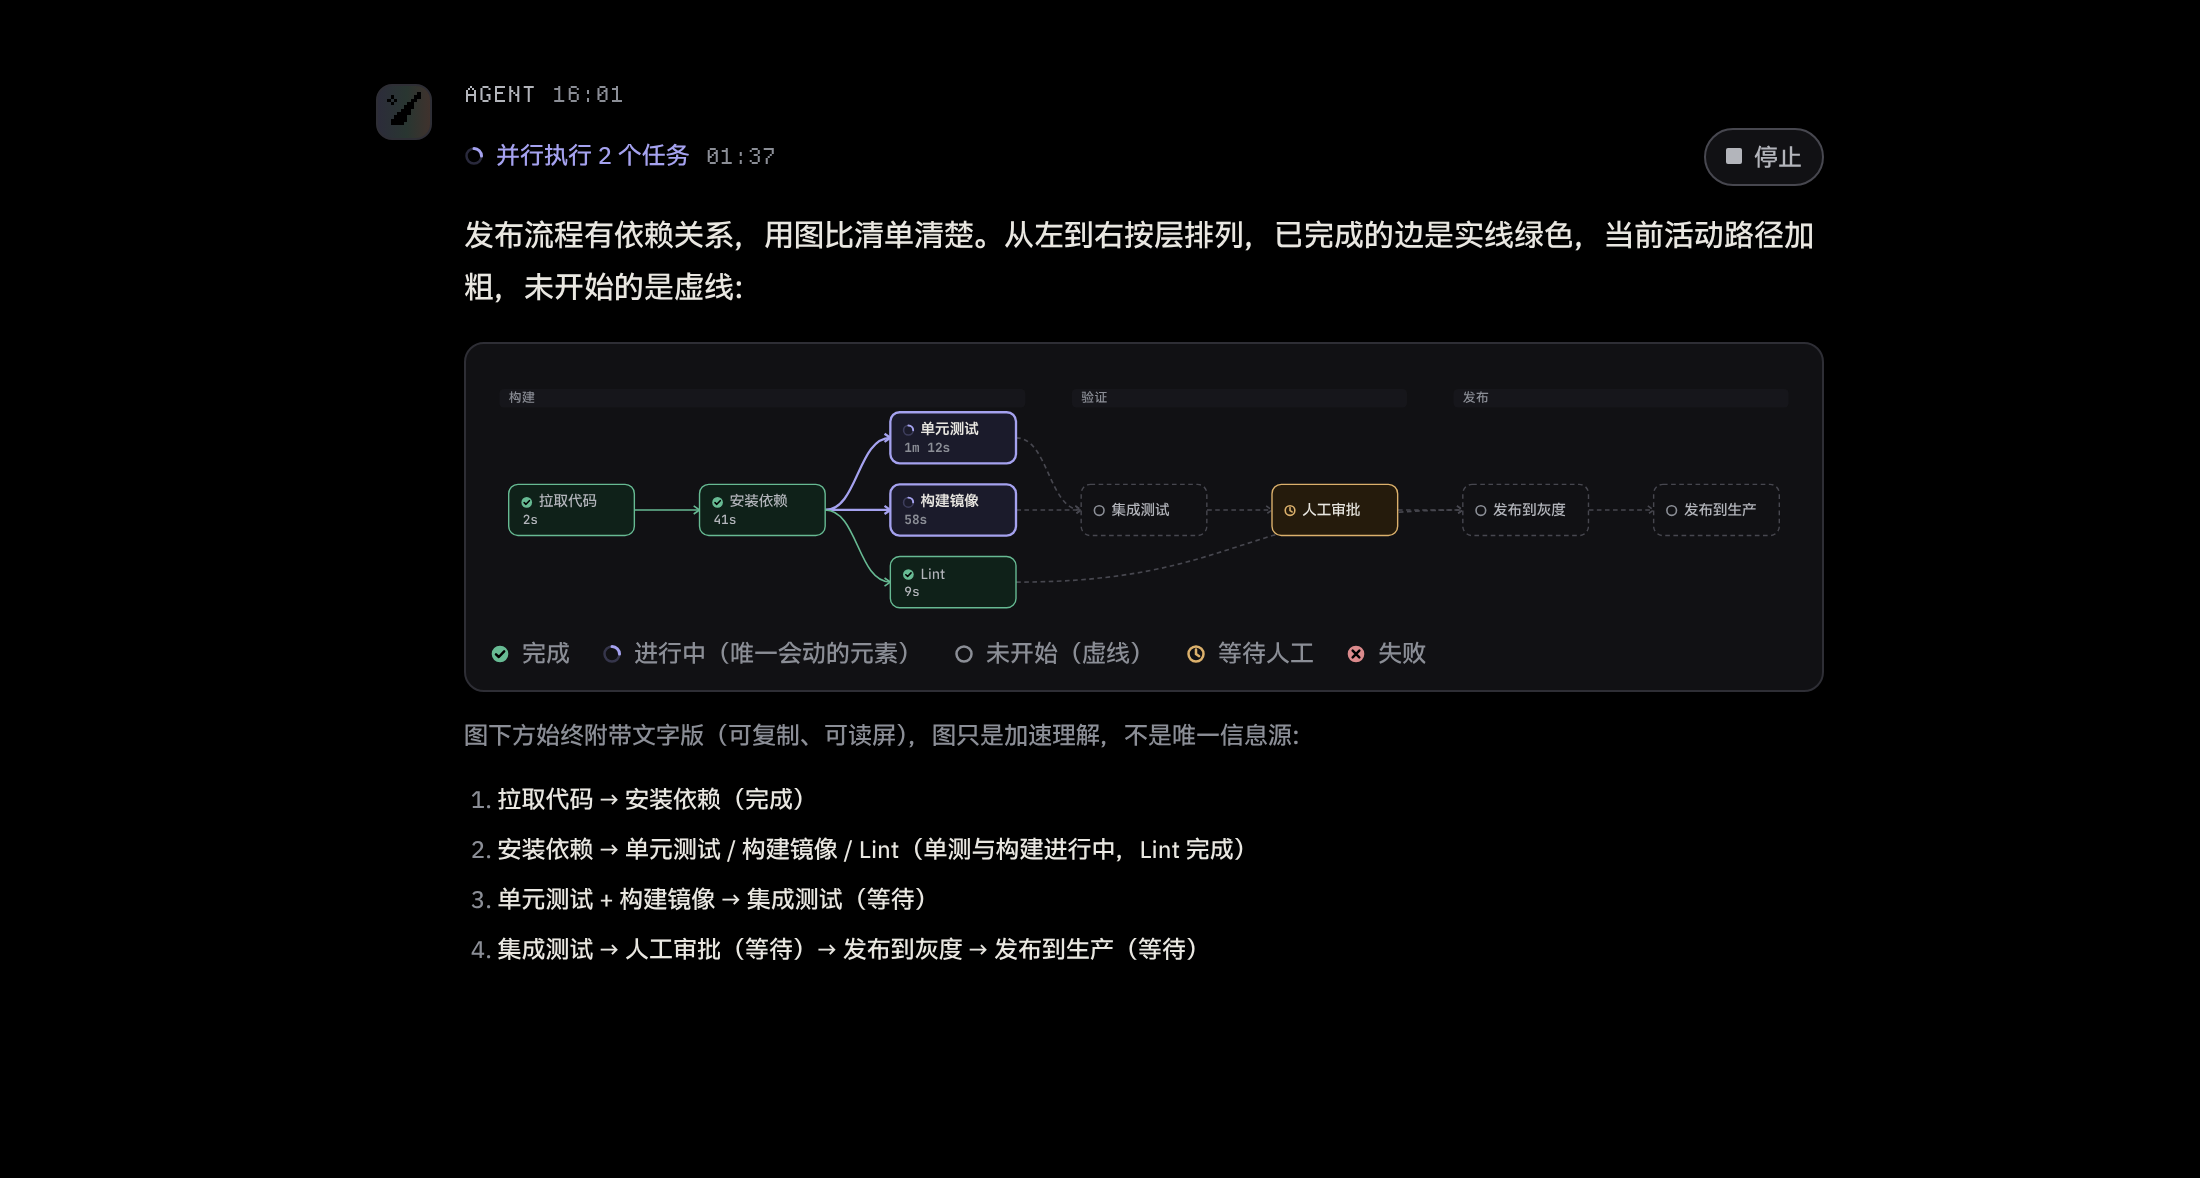
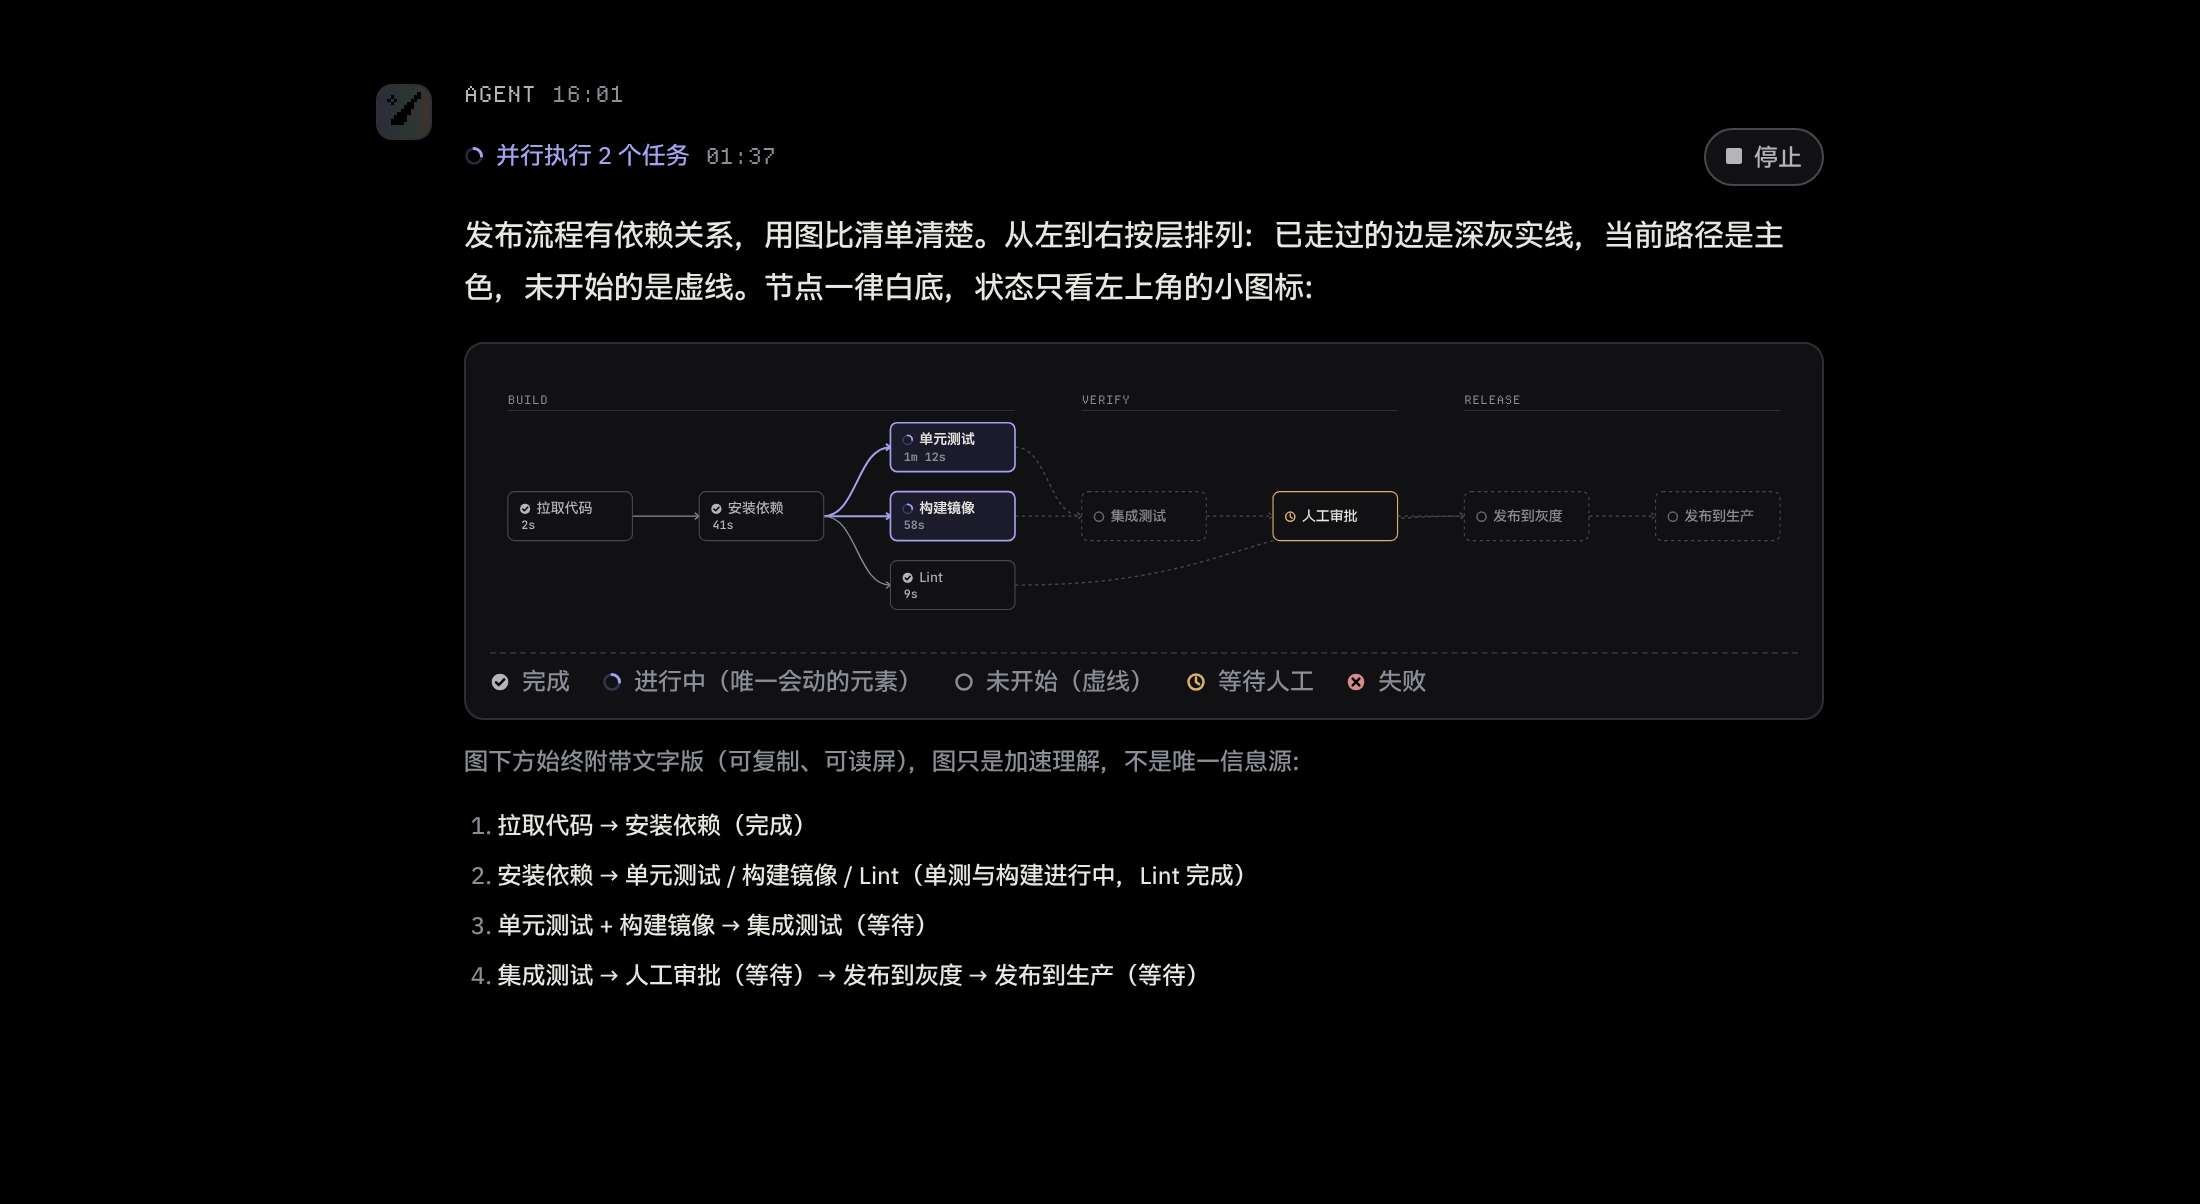
DAG/flow: monochrome nodes, single accent for the active path, hairline lanes
Claude-Session: https://claude.ai/code/session_019TAozbCiCoJNxbMmRoPrCA

diff --git a/agent-chat-readability/demo/demo.css b/agent-chat-readability/demo/demo.css
@@ -215,37 +215,38 @@ body.capture .skeleton{animation:none}
 .next{border-top:var(--hairline) solid var(--border);padding-top:var(--space-3);margin-top:var(--space-5)!important}
 .next .k{font-size:var(--fs-xs);color:var(--text-3);font-weight:var(--fw-semibold);letter-spacing:.04em;margin-bottom:4px}
 
-/* ---------- 图：DAG / 流程 ---------- */
-.graph{border:var(--hairline) solid var(--border);border-radius:var(--radius-md);background:var(--surface);padding:var(--space-3);overflow:auto}
+/* ---------- 图：DAG / 流程 ----------
+   单色方案：节点一律白底 + 细灰边，状态只靠小图标；唯一的颜色是“当前路径”的主色。
+   边三档：已走过 = 深灰实线，当前 = 主色实线略粗，未来 = 浅灰虚线。 */
+.graph{border:var(--hairline) solid var(--border);border-radius:var(--radius-md);background:var(--surface);padding:var(--space-4) var(--space-3) var(--space-3);overflow:auto}
 .graph>svg{display:block;max-width:100%;height:auto;font-family:var(--font-sans)}
-.graph .cap{font-size:var(--fs-xs);color:var(--text-3);margin-top:var(--space-2);display:flex;gap:var(--space-4);flex-wrap:wrap}
-.g-node rect{fill:var(--surface);stroke:var(--border-strong);stroke-width:1.2}
-.g-node text{fill:var(--text);font-size:12.5px}
-.g-node .sub{fill:var(--text-3);font-size:11px;font-family:var(--font-mono)}
-.g-node.done rect{stroke:var(--success);fill:var(--success-bg)}
-.g-node.done text{fill:var(--text-2)}
-.g-node.running rect{stroke:var(--accent);stroke-width:2;fill:var(--accent-bg)}
-.g-node.running text{font-weight:600}
-.g-node.failed rect{stroke:var(--danger);fill:var(--danger-bg)}
-.g-node.pending rect{stroke-dasharray:4 3;fill:var(--surface)}
-.g-node.pending text{fill:var(--text-2)}
-.g-node.waiting rect{stroke:var(--warning);fill:var(--warning-bg)}
-.g-node .ic{width:11px;height:11px}
-.g-node.done .ic{color:var(--success)} .g-node.running .ic{color:var(--accent)} .g-node.pending .ic{color:var(--text-3)} .g-node.failed .ic{color:var(--danger)} .g-node.waiting .ic{color:var(--warning)} .g-node.skipped .ic{color:var(--text-3)}
+.graph .cap{font-size:var(--fs-xs);color:var(--text-3);margin-top:var(--space-3);display:flex;gap:var(--space-4);flex-wrap:wrap;padding-top:var(--space-2);border-top:1px dashed var(--border)}
 .graph .cap .st{font-size:var(--fs-xs);color:var(--text-3)}
 .graph .cap .st .dot{color:inherit}
-.graph .cap .st.done .dot{color:var(--success)} .graph .cap .st.running .dot{color:var(--accent)} .graph .cap .st.waiting .dot{color:var(--warning)} .graph .cap .st.failed .dot{color:var(--danger)}
-.g-node.skipped rect{stroke:var(--border);fill:var(--surface-2)} .g-node.skipped text{fill:var(--text-3)}
-.g-edge{fill:none;stroke:var(--border-strong);stroke-width:1.4}
-.g-edge.done{stroke:var(--success)}
-.g-edge.active{stroke:var(--accent);stroke-width:2}
-.g-edge.pending{stroke-dasharray:4 3;stroke:var(--border-strong)}
-.g-lane{fill:var(--text-3);font-size:11px;letter-spacing:.04em}
-.g-lanebg{fill:var(--surface-2);opacity:.6}
-.g-dec polygon{fill:var(--warning-bg);stroke:var(--warning);stroke-width:1.2}
+.graph .cap .st.done .dot{color:var(--text-2)} .graph .cap .st.running .dot{color:var(--accent)} .graph .cap .st.waiting .dot{color:var(--warning)} .graph .cap .st.failed .dot{color:var(--danger)}
+.g-node rect{fill:var(--surface);stroke:var(--border-strong);stroke-width:1}
+.g-node text{fill:var(--text);font-size:12.5px}
+.g-node .sub{fill:var(--text-3);font-size:10.5px;font-family:var(--font-mono)}
+.g-node .ic{width:11px;height:11px}
+.g-node.done rect{stroke:var(--border-strong)}
+.g-node.done text{fill:var(--text-2)} .g-node.done .ic{color:var(--text-2)}
+.g-node.running rect{stroke:var(--accent);stroke-width:1.5;fill:var(--accent-bg)}
+.g-node.running text{font-weight:600} .g-node.running .ic{color:var(--accent)}
+.g-node.failed rect{stroke:var(--danger)} .g-node.failed .ic{color:var(--danger)}
+.g-node.pending rect{stroke-dasharray:3 3;stroke:var(--border-strong)}
+.g-node.pending text{fill:var(--text-3)} .g-node.pending .ic{color:var(--text-4)}
+.g-node.waiting rect{stroke:var(--warning)} .g-node.waiting .ic{color:var(--warning)}
+.g-node.skipped rect{stroke:var(--border)} .g-node.skipped text{fill:var(--text-4)} .g-node.skipped .ic{color:var(--text-4)}
+.g-edge{fill:none;stroke:var(--border-strong);stroke-width:1.2}
+.g-edge.done{stroke:var(--text-3)}
+.g-edge.active{stroke:var(--accent);stroke-width:1.8}
+.g-edge.pending{stroke-dasharray:3 3;stroke:var(--border-strong)}
+.g-lane{fill:var(--text-3);font-size:10.5px;letter-spacing:.06em;font-family:var(--font-pixel)}
+.g-laneline{stroke:var(--border);stroke-width:1}
+.g-dec polygon{fill:var(--surface);stroke:var(--border-strong);stroke-width:1}
 .g-dec text{fill:var(--text);font-size:12.5px}
 .g-lbl{fill:var(--text-3);font-size:11px}
-.g-here circle{fill:var(--accent)} .g-here text{fill:var(--bg);font-size:10px;font-weight:700}
+.g-here circle{fill:var(--accent)} .g-here text{fill:var(--bg);font-size:9px;font-weight:700}
 
 /* ---------- 样本 / 规范页 ---------- */
 .spec{display:grid;gap:var(--space-5)}

diff --git a/agent-chat-readability/demo/demo.js b/agent-chat-readability/demo/demo.js
@@ -76,7 +76,7 @@
 
   /* ---------- DAG：按层从左到右（简化 Sugiyama） ---------- */
   function renderDag(host, nodes, edges, lanes) {
-    const W = 108, H = 44, GX = 56, GY = 18, PAD = 16, LANE = lanes ? 22 : 0;
+    const W = 112, H = 44, GX = 60, GY = 18, PAD = 16, LANE = lanes ? 26 : 0;
     const byLayer = {};
     nodes.forEach(n => (byLayer[n.layer] ||= []).push(n));
     const layers = Object.keys(byLayer).map(Number).sort((a, b) => a - b);
@@ -95,12 +95,12 @@
       const x1 = A.x + W, y1 = A.y + H / 2, x2 = B.x, y2 = B.y + H / 2, c = (x2 - x1) / 2;
       const p = el('path', { d: `M${x1},${y1} C${x1 + c},${y1} ${x2 - c},${y2} ${x2},${y2}`, class: 'g-edge ' + (st || '') });
       svg.appendChild(p);
-      svg.appendChild(el('path', { d: `M${x2 - 5},${y2 - 3.5} L${x2},${y2} L${x2 - 5},${y2 + 3.5}`, class: 'g-edge ' + (st || ''), 'stroke-dasharray': '0' }));
+      svg.appendChild(el('path', { d: `M${x2 - 4},${y2 - 3} L${x2},${y2} L${x2 - 4},${y2 + 3}`, class: 'g-edge ' + (st || ''), 'stroke-dasharray': '0' }));
     });
     nodes.forEach(n => {
       const g = el('g', { class: 'g-node ' + n.state, transform: `translate(${n.x},${n.y})` });
       g.appendChild(el('title', {}, `${n.label} · ${n.state}`));
-      g.appendChild(el('rect', { width: W, height: H, rx: 8 }));
+      g.appendChild(el('rect', { width: W, height: H, rx: 6 }));
       g.appendChild(useIcon(n.state, 10, n.sub ? 10 : 17));
       g.appendChild(el('text', { x: 26, y: n.sub ? 19 : 26 }, n.label));
       if (n.sub) g.appendChild(el('text', { x: 12, y: 34, class: 'sub' }, n.sub));
@@ -108,8 +108,8 @@
     });
     if (lanes) lanes.forEach(([label, from, to]) => {
       const x = PAD + from * (W + GX), w = (to - from + 1) * W + (to - from) * GX;
-      svg.insertBefore(el('rect', { x: x - 8, y: PAD + 2, width: w + 16, height: LANE - 6, rx: 4, class: 'g-lanebg' }), svg.firstChild);
-      svg.appendChild(el('text', { x, y: PAD + 13, class: 'g-lane' }, label));
+      svg.appendChild(el('text', { x, y: PAD + 9, class: 'g-lane' }, label.toUpperCase()));
+      svg.appendChild(el('line', { x1: x, y1: PAD + 15, x2: x + w, y2: PAD + 15, class: 'g-laneline' }));
     });
     host.appendChild(svg);
     const cap = document.createElement('div'); cap.className = 'cap';
@@ -131,7 +131,7 @@
   ], [
     ['co', 'dep', 'done'], ['dep', 'unit', 'active'], ['dep', 'img', 'active'], ['dep', 'lint', 'done'],
     ['unit', 'int', 'pending'], ['img', 'int', 'pending'], ['lint', 'canary', 'pending'], ['int', 'appr', 'pending'], ['appr', 'canary', 'pending'], ['canary', 'prod', 'pending'],
-  ], [['构建', 0, 2], ['验证', 3, 4], ['发布', 5, 6]]);
+  ], [['build', 0, 2], ['verify', 3, 4], ['release', 5, 6]]);
 
   /* ---------- 流程图：自上而下，菱形决策 ---------- */
   function renderFlow(host) {
@@ -139,9 +139,9 @@
     const svg = el('svg', { viewBox: `0 0 ${width} ${height}`, width, height, role: 'img', 'aria-label': '告警处理流程' });
     const box = (x, y, w, h, label, state, here) => {
       const g = el('g', { class: 'g-node ' + state, transform: `translate(${x},${y})` });
-      g.appendChild(el('rect', { width: w, height: h, rx: 8 }));
+      g.appendChild(el('rect', { width: w, height: h, rx: 6 }));
       g.appendChild(el('text', { x: w / 2, y: h / 2 + 4.5, 'text-anchor': 'middle' }, label));
-      if (here) { const hh = el('g', { class: 'g-here', transform: `translate(${w - 2},${-2})` }); hh.appendChild(el('circle', { r: 9 })); hh.appendChild(el('text', { 'text-anchor': 'middle', y: 3.5 }, '▶')); g.appendChild(hh); }
+      if (here) { const hh = el('g', { class: 'g-here', transform: `translate(${w - 2},${-2})` }); hh.appendChild(el('circle', { r: 8 })); hh.appendChild(el('text', { 'text-anchor': 'middle', y: 3.5 }, '▶')); g.appendChild(hh); }
       svg.appendChild(g); return { x, y, w, h };
     };
     const dec = (cx, cy, label) => {
@@ -173,7 +173,7 @@
     line(`M${cx},330 L${cx},360 L${cx + 130},360`, 'pending');
     host.appendChild(svg);
     const cap = document.createElement('div'); cap.className = 'cap';
-    cap.innerHTML = '<span>菱形 = 判断</span><span>圆角矩形 = 动作</span><span>绿实线 = 已走过</span><span>蓝粗线 = 当前路径</span><span>虚线 = 未来可能路径</span>';
+    cap.innerHTML = '<span>菱形 = 判断</span><span>圆角矩形 = 动作</span><span>深灰实线 = 已走过</span><span>主色线 = 当前路径</span><span>虚线 = 未来可能路径</span>';
     host.appendChild(cap);
   }
   const flow = document.getElementById('flow1');

diff --git a/agent-chat-readability/demo/index.html b/agent-chat-readability/demo/index.html
@@ -253,7 +253,7 @@ run 8790 was deleted by the retention policy (90 days)</div>
         <div class="turn-head"><b>Agent</b><span class="t">16:01</span></div>
         <div class="status-line"><span class="st running"><span class="dot"><svg><use href="#i-running"/></svg></span>并行执行 2 个任务</span><span class="elapsed">01:37</span><button class="stop" type="button"><i></i>停止</button></div>
         <div class="prose">
-          <p>发布流程有依赖关系，用图比清单清楚。从左到右按层排列，已完成的边是实线绿色，当前活动路径加粗，未开始的是虚线：</p>
+          <p>发布流程有依赖关系，用图比清单清楚。从左到右按层排列：已走过的边是深灰实线，当前路径是主色，未开始的是虚线。节点一律白底，状态只看左上角的小图标：</p>
           <div class="graph" id="dag1"></div>
           <p class="muted small">图下方始终附带文字版（可复制、可读屏），图只是加速理解，不是唯一信息源：</p>
           <ol class="small">
@@ -275,7 +275,7 @@ run 8790 was deleted by the retention policy (90 days)</div>
         <div class="prose">
           <p>这是我处理每条告警的判断流程，蓝色 ▶ 标记是<strong>当前所在位置</strong>。决策节点用菱形、动作用圆角矩形，Yes/No 永远标在边上而不是节点里：</p>
           <div class="graph" id="flow1"></div>
-          <p class="muted small">规则：流程 ≤ 12 个节点；超过就拆分成子流程并折叠。文字一律水平，不旋转。</p>
+          <p class="muted small">规则：流程 ≤ 12 个节点；超过就拆分成子流程并折叠。文字一律水平，不旋转。图里唯一的颜色是当前路径。</p>
         </div>
       </div>
     </div>

diff --git a/agent-chat-readability/README.md b/agent-chat-readability/README.md
@@ -283,7 +283,8 @@
 
 - ≥ 4 个有依赖/并行的任务用 **DAG**（左→右分层、泳道标阶段）；判断逻辑用**流程图**（上→下、菱形判断、Yes/No 标在边上）；否则用列表。
 - 节点 ≤ 12，超过拆子图折叠；文字水平不旋转；节点标签 ≤ 8 字。
-- 边：已完成绿实线、当前路径主色粗线、未来灰虚线。节点状态图标与全局同一套 SVG symbol。
+- **单色方案**：节点一律白底细灰边，状态只靠左上角的小图标（与全局同一套 SVG symbol）；进行中节点加主色描边与极淡主色底，等待人工只换描边色。边三档：已走过深灰实线、当前路径主色略粗、未来浅灰虚线。图里唯一的颜色是"当前路径"。泳道用像素字体小标签 + 发丝线，不用灰色色块。
+- 理由：彩色填充的节点看起来像流程图工具的默认样式，三四种底色同时出现会争夺注意力；状态信息靠图标形状已经足够，颜色留给"现在在哪"。
 - **图下方永远附文字版**：可读屏、可复制、可搜索、渲染失败回退。
 - 只有 running 节点有动画；`prefers-reduced-motion` 与截图模式下静止。
 
